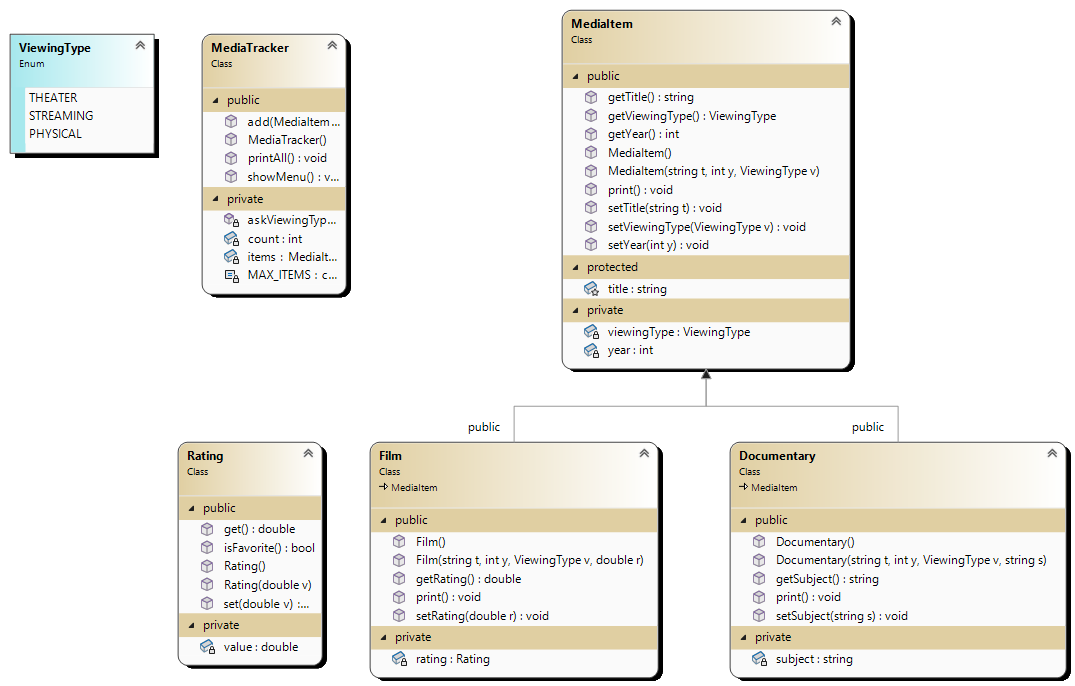
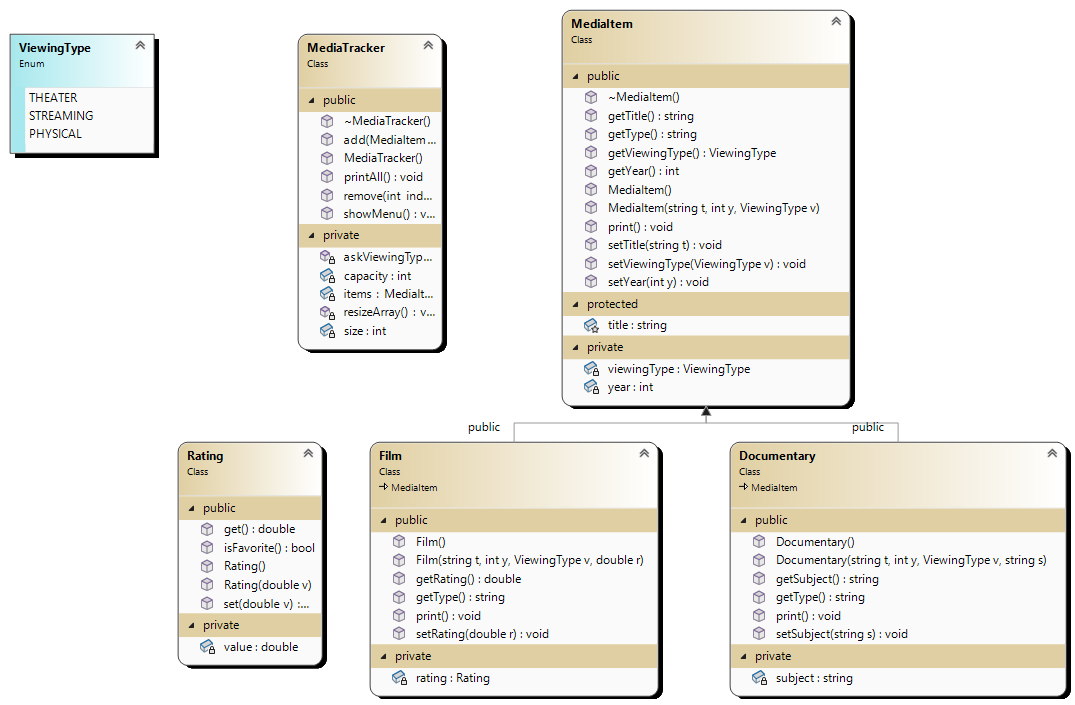
Week 5 changes

diff --git a/Homework1/main.cpp b/Homework1/main.cpp
@@ -31,7 +31,7 @@ public:
     }
 };
 
-//used as base
+//Abstract base class
 class MediaItem {
 protected:
     string title;     
@@ -56,15 +56,19 @@ public:
     void setTitle(string t) { title = t; }
     void setYear(int y) { if (y > 0) year = y; }
     void setViewingType(ViewingType v) { viewingType = v; }
-
     string getTitle() const { return title; }
     int getYear() const { return year; }
     ViewingType getViewingType() const { return viewingType; }
 
-    void print() const {
+    //virtual functions
+    virtual string getType() const = 0; //pure virtual
+
+    virtual void print() const {
         cout << left << setw(20) << title
             << setw(8) << year;
     }
+
+    virtual ~MediaItem() {};
 };
 
 //derived class
@@ -84,7 +88,13 @@ public:
     void setRating(double r) { rating.set(r); }
     double getRating() const { return rating.get(); }
 
-    void print() const  {
+
+    //overrides
+    string getType() const override {
+        return "Film";
+    }
+
+    void print() const override {
         MediaItem::print();   
         cout << setw(12) << "Film"          
             << setw(15) << fixed << setprecision(1) << rating.get(); 
@@ -110,7 +120,12 @@ public:
     void setSubject(string s) { subject = s; }
     string getSubject() const { return subject; }
 
-    void print() const  {
+    //overrides
+    string getType() const override {
+        return "Documentary";
+    }
+
+    void print() const  override{
         MediaItem::print();   
         cout << setw(12) << "Doc"           
             << setw(15) << subject;        
@@ -118,11 +133,23 @@ public:
     }
 };
 
+//manager class
 class MediaTracker {
 private:
-    static const int MAX_ITEMS = 5;
-    MediaItem items[MAX_ITEMS];
-    int count;
+    MediaItem** items;
+    int size;
+    int capacity;
+
+    void resizeArray() {
+        capacity *= 2;
+        MediaItem** temp = new MediaItem * [capacity];
+
+        for (int i = 0; i < size; i++)
+            temp[i] = items[i];
+
+        delete[] items;
+        items = temp;
+    }
 
     ViewingType askViewingType() {
         int choice;
@@ -137,12 +164,36 @@ private:
 
 public:
     MediaTracker() {
-        count = 0;
+        capacity = 5;
+        size = 0;
+        items = new MediaItem * [capacity];
     }
 
-    bool add(MediaItem& m) {
-        if (count >= MAX_ITEMS) return false;
-        items[count++] = m;
+    ~MediaTracker() {
+        for (int i = 0; i < size; i++)
+            delete items[i];      
+
+        delete[] items;  
+    }
+
+    bool add(MediaItem* m) {
+        if (size == capacity)
+            resizeArray();
+        else if (size > capacity) return false;
+        items[size++] = m;
+        return true;
+    }
+
+    bool remove(int index) {
+        if (index < 0 || index >= size)
+            return false;
+
+        delete items[index];
+
+        for (int i = index; i < size - 1; i++)
+            items[i] = items[i + 1];
+
+        size--;
         return true;
     }
 
@@ -153,16 +204,15 @@ public:
             << setw(15) << "Rating/Subject" << endl;
         cout << string(55, '-') << endl;
 
-        for (int i = 0; i < count; i++) {
-            items[i].print();   
-        }
+        for (int i = 0; i < size; i++)
+            items[i]->print();   // polymorphism
         cout << endl;
     }
 
     void showMenu() {
         int choice;
         do {
-            cout << "\n1.Add Film\n2.Add Documentary\n3.View\n4.Quit\nChoice: ";
+            cout << "\n1.Add Film\n2.Add Documentary\n3.View\n4.Remove Item\n9.Quit\nChoice: ";
             cin >> choice;
             cout << endl;
             cin.ignore(1000, '\n');
@@ -173,8 +223,7 @@ public:
                 cout << "Year: "; cin >> y;
                 cout << "Rating: "; cin >> r;
                 ViewingType v = askViewingType();
-                Film f(t, y, v, r);
-                add(f);
+                add(new Film(t, y, v, r));
             }
 
             if (choice == 2) {
@@ -185,12 +234,18 @@ public:
                 cout << "Subject: "; getline(cin, s);
                 ViewingType v = askViewingType();
                 Documentary d(t, y, v, s);
-                add(d);
+                add(new Documentary(t, y, v, s));
             }
-
             if (choice == 3) printAll();
 
-        } while (choice != 4);
+            if (choice == 4) {
+                int index;
+                printAll();
+                cout << "Enter index to remove: ";
+                cin >> index;
+                remove(index);
+            }
+        } while (choice != 9);
     }
 };
 
@@ -219,16 +274,23 @@ TEST_CASE("Derived calls base via print") {
     CHECK(f.getTitle() == "Movie");
 }
 
-TEST_CASE("Tracker add") {
-    MediaTracker t;
-    Film f("A", 2000, STREAMING, 5);
-    CHECK(t.add(f) == true);
-}
-
 TEST_CASE("Setter updates") {
     Film f;
     f.setRating(6);
     CHECK(f.getRating() == 6);
+}
+
+TEST_CASE("Polymorphic virtual function test") {
+    MediaItem* m = new Film("Test", 2020, STREAMING, 9);
+    CHECK(m->getType() == "Film");
+    delete m;
+}
+
+TEST_CASE("Add & remove dynamic") {
+    MediaTracker t;
+    t.add(new Film("A", 2000, STREAMING, 5));
+    t.add(new Documentary("B", 2001, THEATER, "Nature"));
+    CHECK(t.remove(0) == true);
 }
 
 #else
